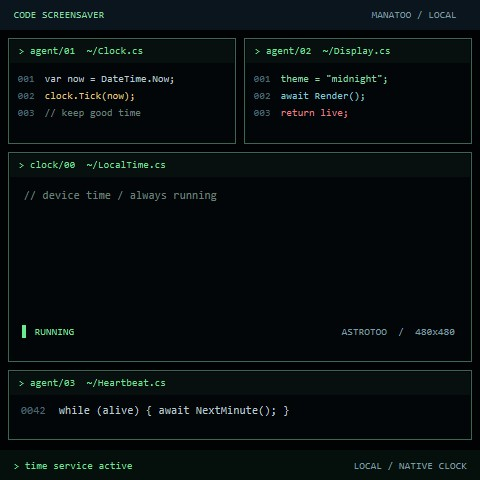
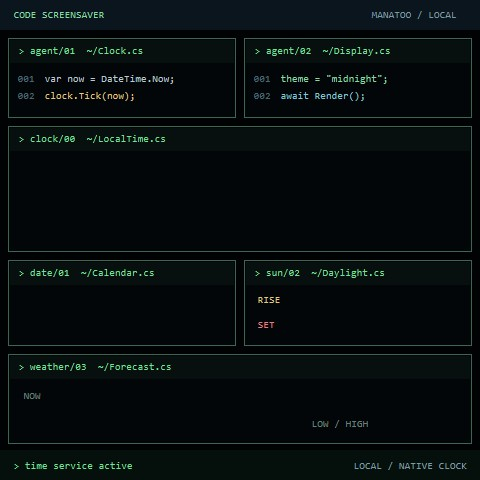
Add console fonts and separate date, daylight, and weather panels

diff --git a/README.md b/README.md
@@ -20,7 +20,7 @@ Open the local URL printed by Vite (normally http://127.0.0.1:5173). Select the 
 
 ### Code Screensaver clock
 
-`faces/code-clock/` contains a terminal-style face inspired by ManaRenderer's CodeScreensaver: near-black panels, green outlines, line numbers, and syntax-colored snippets. Code panels are static artwork; the time and date are native live device elements. It runs without a connected PC.
+`faces/code-clock/` contains a terminal-style face inspired by ManaRenderer's CodeScreensaver: near-black panels, green outlines, line numbers, and syntax-colored snippets. Code panels are static artwork; the clock, date, weekday, sunrise, sunset, temperature, conditions, and daily temperature range are native live device elements in separate terminal panels. Weather and solar times use the location and weather service configured on the AstroToo. It runs without a connected PC.
 
 ```powershell
 npm run face:deploy
@@ -28,7 +28,7 @@ npm run face:deploy
 
 This creates or updates the MCP-managed custom face, selects it, reads it back, and saves a device screenshot as `exports/code-clock.bmp`. It also saves the previously displayed configuration in `exports/before.json`. Other stock clockfaces remain available through the Divoom app.
 
-To customize: change time/date colors, positions, or sizes in `faces/code-clock/metadata.json`; edit `scripts/draw-code-clock.ps1` for the terminal artwork, then run `npm run face:draw` (Windows PowerShell + System.Drawing) and `npm run face:deploy`. Font 28 was confirmed installed on the development device. The background JPEG is committed, so drawing is optional.
+To customize: change time/date colors, positions, or sizes in `faces/code-clock/metadata.json`; edit `scripts/draw-code-clock.ps1` for the terminal artwork, then run `npm run face:draw` (Windows PowerShell + System.Drawing) and `npm run face:deploy`. The clock uses PlayerSansMono8x8 (font 116); information panels use Sono SemiBold (font 138). Both were confirmed installed on the development device. The background JPEG is committed, so drawing is optional.
 
 For visual design from scratch, run `npm run editor`, open its printed localhost URL, choose a template or new design, and select your AstroToo in its device controls. The editor stores its own designs; the Code Clock metadata here is intended for the scripted LAN workflow.
 
